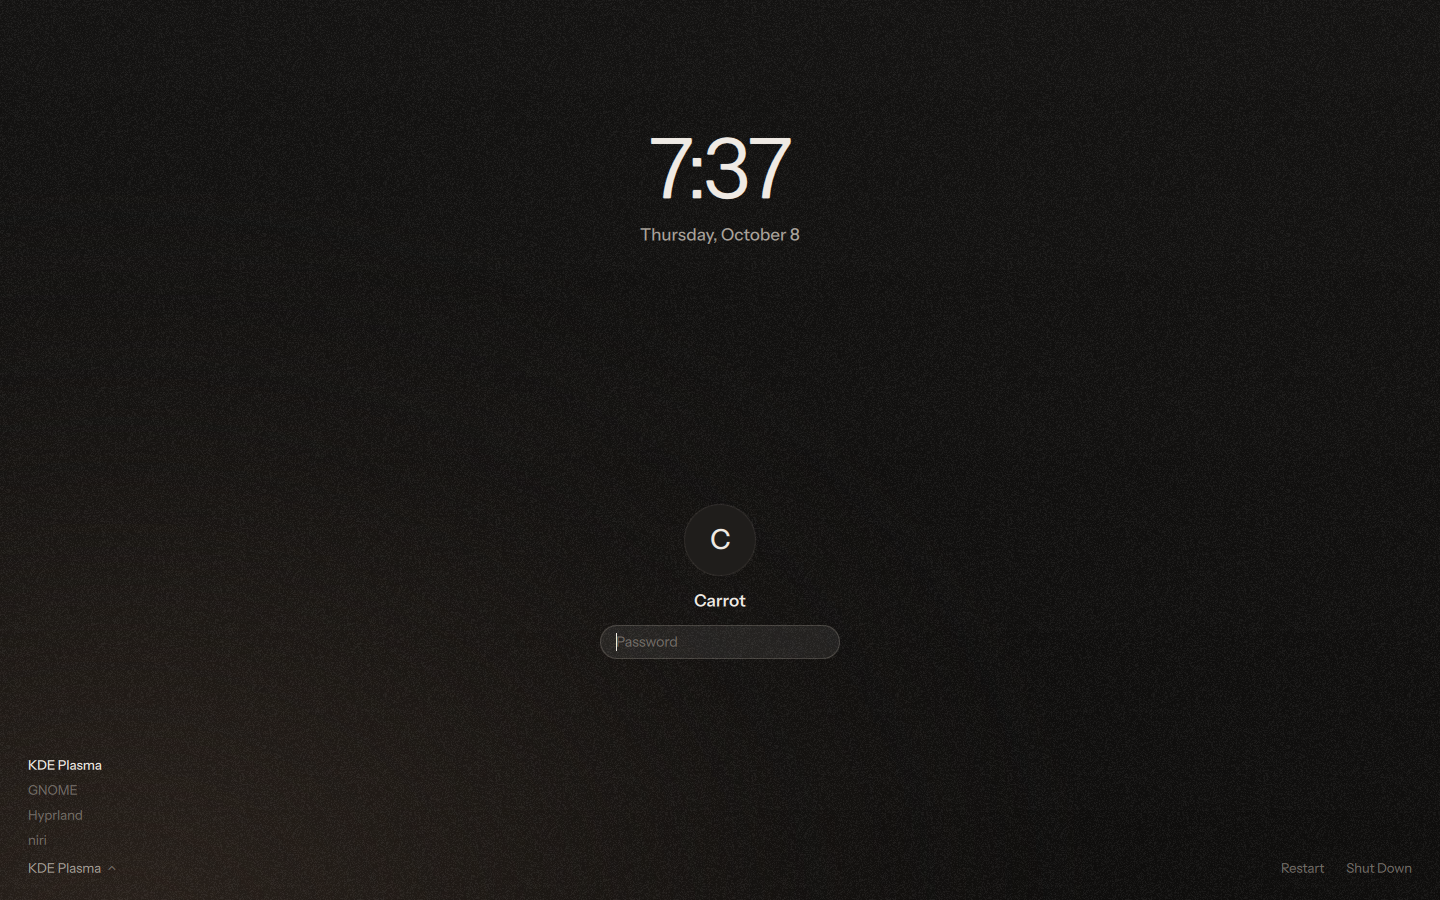
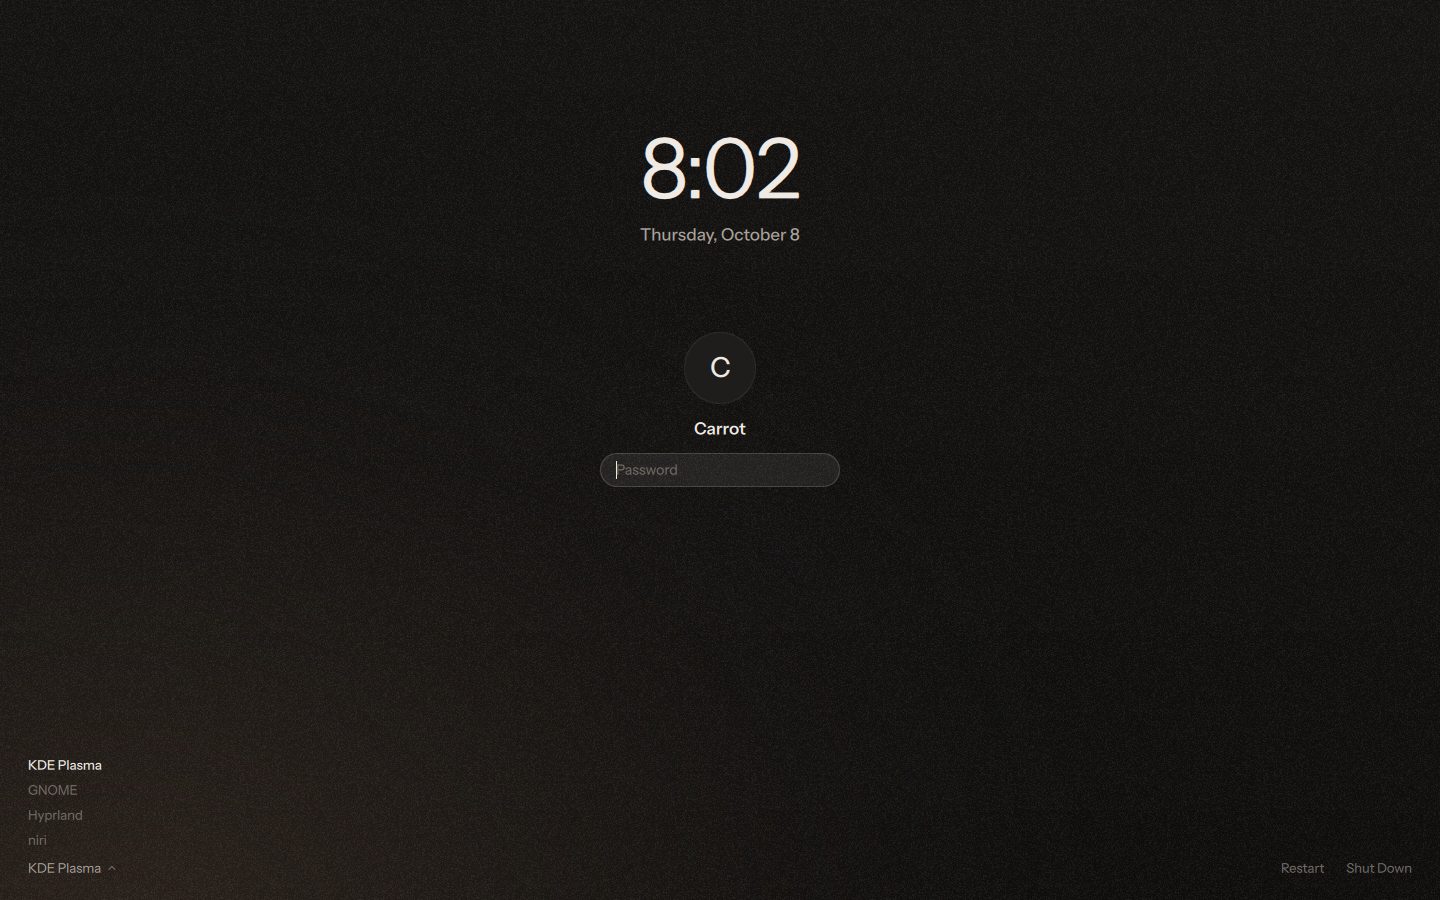
Live ISO: Install Firelamp OS in the dock and Firelamp menu; login block lifted
The shell covers Plasma, so on the live ISO it carries the way to the installer.
firelamp-desktops reports /live and starts firelamp-install on POST /install-os,
only when /run/archiso exists.

Claude-Session: https://claude.ai/code/session_01B11KmgS7KywUE1jfuntsyj

diff --git a/shell/Main.qml b/shell/Main.qml
@@ -38,6 +38,7 @@ Window {
 
     function launch(id) {
         if (id === "downloads") id = "files";
+        if (id === "install") return Os.installOS();
         if (id === "trash") return;
         if (desktop.registry[id]) desktop.open(id);
     }
@@ -127,7 +128,8 @@ Window {
             anchors.bottomMargin: screen.booted && !tucked ? 7 : -110
             Behavior on anchors.bottomMargin { SequentialAnimation { PauseAnimation { duration: 250 } NumberAnimation { duration: 900; easing.type: Easing.OutQuint } } }
             items: win.apps.filter(function (a) { return !a.noDock; }).map(function (a) { return { id: a.id, icon: a.icon, title: a.title }; })
-                   .concat(["-", { id: "downloads", icon: "downloads", title: "Downloads" }, { id: "trash", icon: "trash", title: "Trash" }])
+                   .concat(["-"], Os.live ? [{ id: "install", icon: "install", title: "Install Firelamp OS" }] : [],
+                           [{ id: "downloads", icon: "downloads", title: "Downloads" }, { id: "trash", icon: "trash", title: "Trash" }])
             aiActiveId: agent.mode !== "idle" ? "assistant" : ""
             onLaunch: (id) => win.launch(id)
         }
@@ -248,6 +250,7 @@ Window {
         if (flag("reset")) Os.settings.assistantName = "";
         if (opt("name")) Os.settings.assistantName = opt("name");
         if (flag("demo-installs")) Os.demoInstalls = true;
+        if (flag("live")) Os.live = true; else Os.checkLive();
         Os.root = screen; Os.desktop = desktop; Os.dock = dock; Os.agent = agent; Os.cursor = cursor;
         if (flag("nosplash")) { if (!Os.settings.assistantName) nameCard.shown = true; else screen.booted = true; }
     }

diff --git a/shell/components/TopBar.qml b/shell/components/TopBar.qml
@@ -41,10 +41,11 @@ Rectangle {
     })
     function itemsFor(key) {
         if (key === "logo") return [
-            { label: "About Firelamp OS", action: function () { Os.desktop.open("about"); } }, "-",
+            { label: "About Firelamp OS", action: function () { Os.desktop.open("about"); } }, "-"].concat(
+            Os.live ? [{ label: "Install Firelamp OS…", action: function () { Os.installOS(); } }, "-"] : [], [
             { label: "System Settings…", action: function () { Os.desktop.open("settings"); } },
             { label: "Activity Timeline", sc: "⌥⌘T", action: function () { Os.timelineToggle(undefined); } }, "-",
-            { label: "Sleep" }, { label: "Restart…" }, { label: "Shut Down…" }, "-", { label: "Lock Screen", sc: "⌃⌘Q" }];
+            { label: "Sleep" }, { label: "Restart…" }, { label: "Shut Down…" }, "-", { label: "Lock Screen", sc: "⌃⌘Q" }]);
         if (key === "app") return [{ label: "About " + appName }, "-", { label: "Settings…", sc: "⌘,", action: function () { Os.desktop.open("settings"); } }, "-", { label: "Hide " + appName, sc: "⌘H" }, { label: "Quit " + appName, sc: "⌘Q", action: function () { Os.desktop.closeFocused(); } }];
         if (key === "control") return [{ label: "Focus", sc: "Off" }, { label: "Screen Mirroring" }, "-", { label: "Pause " + Os.name, sc: "⌃Space", action: function () { Os.agent.togglePause(); } }, { label: "Stop " + Os.name, sc: "Esc", action: function () { Os.agent.stop(); } }];
         if (key === "wifi") return [{ label: "Wi-Fi", sc: "On" }, "-", { label: "Hearth", sc: "●" }, { label: "Kitchen 5G" }, "-", { label: "Network Settings…" }];

diff --git a/shell/js/art.js b/shell/js/art.js
@@ -80,6 +80,8 @@ var APP_ICONS = {
   settings: () => flat('#3A3836', '<circle cx="50" cy="50" r="10" fill="none" stroke="#D8D2CA" stroke-width="6"/><path d="M50 22v10M50 68v10M22 50h10M68 50h10M30 30l7 7M63 63l7 7M70 30l-7 7M37 63l-7 7" stroke="#D8D2CA" stroke-width="6" stroke-linecap="round"/>'),
   timeline: () => flat('#2C2B2A', '<path d="M30 30h.01M30 50h.01M30 70h.01" stroke="#D8D2CA" stroke-width="8" stroke-linecap="round"/><path d="M44 30h28M44 50h20M44 70h24" stroke="#8D867F" stroke-width="5" stroke-linecap="round"/>'),
   downloads: () => flat('#3A3E44', '<path d="M50 26v36M36 50l14 14 14-14M28 74h44" fill="none" stroke="#D4D9DE" stroke-width="5" stroke-linecap="round" stroke-linejoin="round"/>'),
+  // live session only: a drive with the flame mark going onto it
+  install: () => flat('#E9E4DC', `<rect x="24" y="56" width="52" height="18" rx="5" fill="#3A3631"/><circle cx="66" cy="65" r="2.6" fill="#E9E4DC"/><g transform="translate(41.5 22) scale(.026)"><path fill="#3A3631" d="${Logo.PATHS.outer}"/></g>`),
   trash: (full = false) => flat('#2C2B2A', `${full ? '<path d="M36 34q4-10 12-5 8-8 16 2z" fill="#E9E4DC"/>' : ''}<path d="M32 34h36l-4 42H36z" fill="none" stroke="#BDB6AE" stroke-width="4" stroke-linejoin="round"/><path d="M28 34h44M42 28h16" stroke="#BDB6AE" stroke-width="4" stroke-linecap="round"/>`),
 };
 

diff --git a/shell/components/Os.qml b/shell/components/Os.qml
@@ -49,6 +49,18 @@ QtObject {
     function setTrust(app, v) { var t = {}; try { t = JSON.parse(settings.appTrust); } catch (e) {} t[app] = v; settings.appTrust = JSON.stringify(t); }
     readonly property string name: settings.assistantName || "Assistant"
 
+    // ---- the live ISO: the shell covers Plasma, so it carries the way to the installer ----
+    property bool live: false                     // firelamp-desktops says /run/archiso exists
+    function checkLive() {
+        var x = new XMLHttpRequest();
+        x.onreadystatechange = function () { if (x.readyState === XMLHttpRequest.DONE && x.status === 200) os.live = !!JSON.parse(x.responseText).live; };
+        x.open("GET", "http://127.0.0.1:7341/live"); x.send();
+    }
+    function installOS() {
+        var x = new XMLHttpRequest(); x.open("POST", "http://127.0.0.1:7341/install-os"); x.send();
+        toast("install", "Opening the installer", "Firelamp OS installs from here. Your live session keeps running.");
+    }
+
     // ---- packs: one shared status, so first boot and Settings › Packs agree ----
     property var packStatus: ({})                 // id -> { installed, state, log, removing }
     property bool packHelper: false               // firelamp-desktops answered

diff --git a/iso/profile/airootfs/usr/share/sddm/themes/firelamp/Main.qml b/iso/profile/airootfs/usr/share/sddm/themes/firelamp/Main.qml
@@ -75,7 +75,7 @@ Rectangle {
                Component.onCompleted: root.userList = root.put(root.userList, index, { name: name, realName: realName, icon: icon }) } }
     Column {
         id: who
-        anchors.horizontalCenter: parent.horizontalCenter; y: root.height * 0.56; spacing: 14
+        anchors.horizontalCenter: parent.horizontalCenter; y: Math.round(root.height * 0.58 - 190); spacing: 14   // the field lands near 58%
         readonly property var u: root.userList[root.userIndex]
         Rectangle {
             anchors.horizontalCenter: parent.horizontalCenter

diff --git a/tools/qml_capture.py b/tools/qml_capture.py
@@ -31,10 +31,12 @@ for f in [*out.glob("*.png"), *out.glob("*.jpg")]:
 
 # first boot runs from scratch: splash, no name, then naming
 base = ["firelamp", "--windowed", "--reset"] if scene == "firstboot" else ["firelamp", "--nosplash", "--windowed", "--name=Juniper"]
-if scene in ("stuck", "autopause", "desktops", "edithome", "packs"):
+if scene in ("stuck", "autopause", "desktops", "edithome", "packs", "live"):
     base.append("--pointer")
 if scene in ("desktops", "packs"):
     base.append("--demo-installs")
+if scene == "live":
+    base.append("--live")
 app = QGuiApplication([*base, *sys.argv[3:]])
 engine = QQmlApplicationEngine()
 engine.warnings.connect(lambda ws: [print("QML:", w.toString(), file=sys.stderr) for w in ws])
@@ -361,6 +363,13 @@ elif scene == "packs":
              ("click", "Install Play pack"), ("point", 1240, 800, 600), ("wait", 800), ("still", "settings-packs"),
              ("do", lambda: call("setSetting", "packsAsked", False)), ("wait", 100), ("do", lambda: stop(0))]
     at(400, lambda: run(steps))
+elif scene == "live":
+    # the live ISO: Install Firelamp OS in the dock and the Firelamp menu
+    steps = [("wait", 1200), ("find", "Install Firelamp OS"), ("wait", 900), ("still", "live-dock"),
+             ("click", "Firelamp menu"), ("wait", 600), ("still", "live-menu"),
+             ("point", 900, 600, 500), ("do", lambda: tap(900, 600)), ("wait", 300),
+             ("click", "Install Firelamp OS"), ("wait", 900), ("still", "live-toast"), ("do", lambda: stop(0))]
+    at(300, lambda: (mouse(900, 600), pos.update(x=900, y=600), run(steps)))
 elif scene == "effort":
     # Settings › Assistant: the effort picker, Jev (Instant) by default
     at(300, lambda: call("launch", "settings"))
